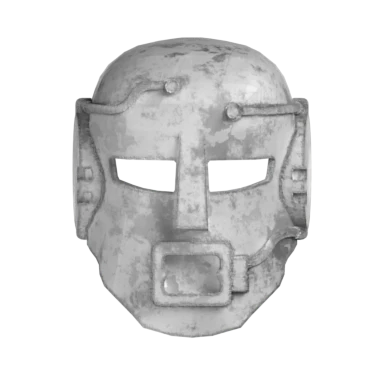
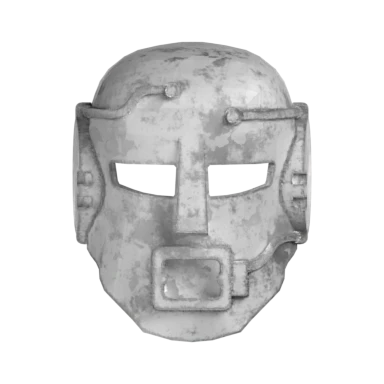
Mask positions review (#363)
* Reposition 3D Rau

* Update Avatars

* Remove unused files

* Update Test Snapshots

* Maybe fix issues

* Fix CI: format helpers.ts and update cutscene snapshot for avatar changes

The cutscene mobileLandscape-right snapshot includes Takua's McFace portrait,
which changed in this branch. Also fix Prettier formatting in e2e/helpers.ts
that was failing the format:check CI step.

---------

diff --git a/e2e/helpers.ts b/e2e/helpers.ts
@@ -50,7 +50,7 @@ export async function addCanvasHidingInitScript(page: Page) {
   await page.addInitScript(() => {
     const style = document.createElement('style');
     style.id = 'e2e-hide-canvas';
-    style.textContent = `#canvas-mount canvas, canvas { display: none !important; }`;
+    style.textContent = `#canvas-mount canvas { display: none !important; }`;
     if (document.head) {
       document.head.appendChild(style);
     } else {
@@ -68,12 +68,35 @@ export async function setupGameState(
   gameState: PartialGameState,
   options?: TestModeOptions
 ) {
-  await page.addInitScript((state: PartialGameState) => {
-    localStorage.setItem('GAME_STATE', JSON.stringify(state));
-    localStorage.setItem('TEST_MODE', 'true');
-    localStorage.setItem('TELEMETRY_ENABLED', 'false');
-    localStorage.setItem(E2E_FORCE_GAME_STATE_IMPORT_KEY, 'true');
-  }, gameState);
+  await page.addInitScript(
+    async ({
+      dbName,
+      forceImportKey,
+      state,
+    }: {
+      dbName: string;
+      forceImportKey: string;
+      state: PartialGameState;
+    }) => {
+      // Ensure each test starts from a clean IndexedDB save (Phase B persistence).
+      await new Promise<void>((resolve) => {
+        const request = indexedDB.deleteDatabase(dbName);
+        request.onsuccess = () => resolve();
+        request.onerror = () => resolve();
+        request.onblocked = () => resolve();
+      });
+
+      localStorage.setItem('GAME_STATE', JSON.stringify(state));
+      localStorage.setItem('TEST_MODE', 'true');
+      localStorage.setItem('TELEMETRY_ENABLED', 'false');
+      localStorage.setItem(forceImportKey, 'true');
+    },
+    {
+      dbName: GAME_DB_NAME,
+      forceImportKey: E2E_FORCE_GAME_STATE_IMPORT_KEY,
+      state: gameState,
+    }
+  );
 
   if (options?.pwaBanner) {
     await page.addInitScript((banner: E2ePwaBannerState) => {
@@ -202,14 +225,15 @@ export async function waitForCanvas(page: Page, timeout = 10000) {
  * Use in tests that don't need the 3D scene (e.g. Chronicle tab) to avoid WebGL wait and speed up runs.
  */
 export async function hideCanvas(page: Page, canvasTimeout = 5000) {
-  await page.waitForSelector('canvas', { state: 'attached', timeout: canvasTimeout }).catch(() => {
-    // Canvas may not exist yet or at all; continue
-  });
+  await page
+    .waitForSelector('#canvas-mount canvas', { state: 'attached', timeout: canvasTimeout })
+    .catch(() => {
+      // 3D canvas may not exist on this route; continue
+    });
   await page.evaluate(() => {
-    const canvas = document.querySelector('canvas');
-    if (canvas) {
-      canvas.style.display = 'none';
-    }
+    document.querySelectorAll('#canvas-mount canvas').forEach((canvas) => {
+      (canvas as HTMLCanvasElement).style.display = 'none';
+    });
   });
 }
 
@@ -336,14 +360,29 @@ export async function waitForAvatars(page: Page, timeout = 10000) {
   await page.waitForTimeout(1000);
 }
 
+/** Character inventory waits on async IndexedDB hydration in CI/Docker. */
+const characterCardsTimeout = process.env.CI || process.env.PLAYWRIGHT_DOCKER ? 30_000 : 10_000;
+
 /**
  * Wait for character cards to be visible
  */
-export async function waitForCharacterCards(page: Page, timeout = 10000) {
-  await page.waitForSelector('.character-card, .matoran-card', {
-    state: 'visible',
-    timeout,
-  });
+export async function waitForCharacterCards(page: Page, timeout = characterCardsTimeout) {
+  await page.waitForFunction(
+    () => {
+      if (document.querySelector('.game-load-gate')) {
+        return false;
+      }
+
+      const card = document.querySelector('.character-card, .matoran-card');
+      if (!card) {
+        return false;
+      }
+
+      const style = window.getComputedStyle(card);
+      return style.visibility !== 'hidden' && style.display !== 'none';
+    },
+    { timeout }
+  );
   await page.waitForTimeout(500);
 }
 

diff --git a/e2e/characters/inventory.spec.ts b/e2e/characters/inventory.spec.ts
@@ -1,5 +1,13 @@
 import { test, expect } from '@playwright/test';
-import { goto, INITIAL_GAME_STATE, setupGameState, waitForCharacterCards } from '../helpers';
+import {
+  disableCSSAnimations,
+  goto,
+  hideCanvas,
+  INITIAL_GAME_STATE,
+  setupGameState,
+  waitForAvatars,
+  waitForCharacterCards,
+} from '../helpers';
 
 const CHARACTER_INVENTORY_GAME_STATE = {
   ...INITIAL_GAME_STATE,
@@ -28,10 +36,15 @@ const CHARACTER_INVENTORY_GAME_STATE = {
 test.describe('Character Inventory Page', () => {
   test('should display character inventory', async ({ page }) => {
     await setupGameState(page, CHARACTER_INVENTORY_GAME_STATE);
-    await goto(page, '/characters');
+    await goto(page, '/characters', {
+      hideCanvasBeforeNav: true,
+      waitUntil: 'domcontentloaded',
+    });
 
-    // Wait for character cards to be visible instead of networkidle
     await waitForCharacterCards(page);
+    await waitForAvatars(page);
+    await hideCanvas(page);
+    await disableCSSAnimations(page);
 
     // Take a screenshot
     await expect(page).toHaveScreenshot({
@@ -44,10 +57,15 @@ test.describe('Character Inventory Page', () => {
     page,
   }) => {
     await setupGameState(page, { ...CHARACTER_INVENTORY_GAME_STATE, completedQuests: [] });
-    await goto(page, '/characters');
+    await goto(page, '/characters', {
+      hideCanvasBeforeNav: true,
+      waitUntil: 'domcontentloaded',
+    });
 
-    // Wait for character cards to be visible instead of networkidle
     await waitForCharacterCards(page);
+    await waitForAvatars(page);
+    await hideCanvas(page);
+    await disableCSSAnimations(page);
 
     await expect(page.getByRole('button', { name: 'Create Matoran' })).toBeVisible();
 
@@ -61,10 +79,15 @@ test.describe('Character Inventory Page', () => {
   test.describe('Character Cards', () => {
     test('should display character cards with avatars', async ({ page }) => {
       await setupGameState(page, CHARACTER_INVENTORY_GAME_STATE);
-      await goto(page, '/characters');
+      await goto(page, '/characters', {
+        hideCanvasBeforeNav: true,
+        waitUntil: 'domcontentloaded',
+      });
 
-      // Wait for character cards to be visible instead of networkidle
       await waitForCharacterCards(page);
+      await waitForAvatars(page);
+      await hideCanvas(page);
+      await disableCSSAnimations(page);
 
       const cards = await page.locator('.character-card').all();
 
